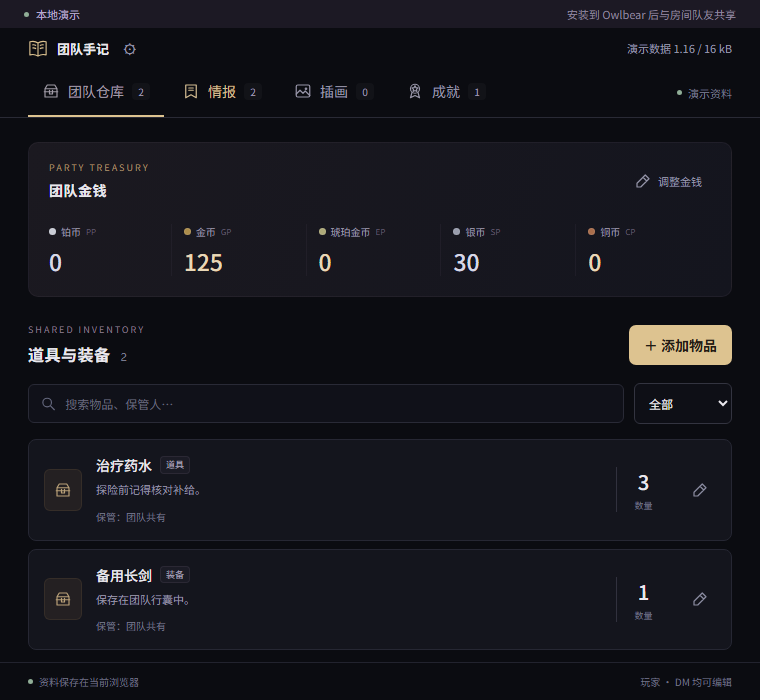
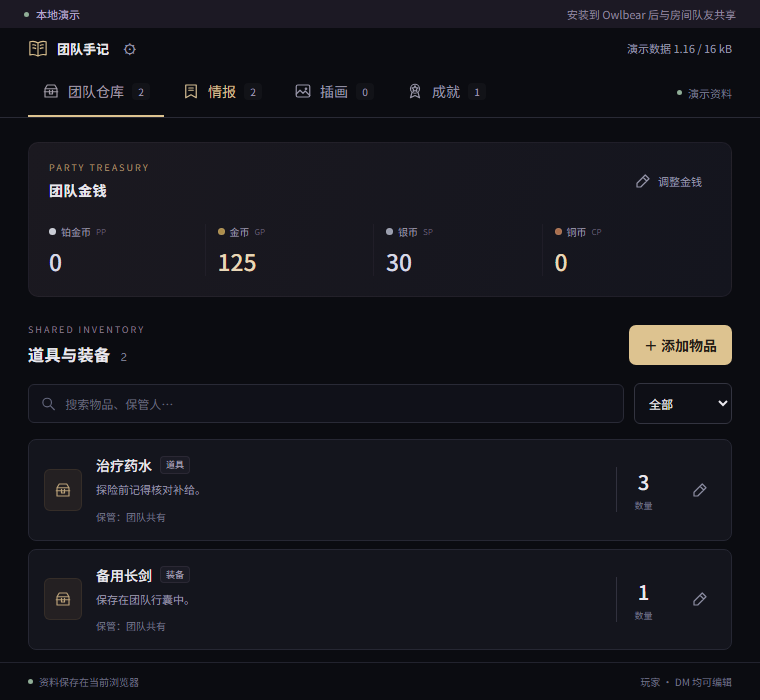
fix: use four currencies and correct platinum coin label

diff --git a/tests/panel.spec.ts b/tests/panel.spec.ts
@@ -4,7 +4,15 @@ test("money, items and equipment can be edited and survive a reload", async ({
   page,
 }) => {
   await page.goto("/panel.html");
+  await expect(page.locator(".coin-label")).toHaveText([
+    /铂金币\s*PP/,
+    /金币\s*GP/,
+    /银币\s*SP/,
+    /铜币\s*CP/,
+  ]);
   await page.getByRole("button", { name: "调整金钱", exact: true }).click();
+  await expect(page.getByRole("spinbutton")).toHaveCount(4);
+  await page.getByLabel("铂金币 · PP", { exact: true }).fill("2");
   await page.getByLabel("金币 · GP", { exact: true }).fill("220");
   await page.getByRole("button", { name: "保存金钱", exact: true }).click();
   await expect(page.getByLabel("金币余额", { exact: true })).toHaveText("220");
@@ -19,6 +27,7 @@ test("money, items and equipment can be edited and survive a reload", async ({
     page.getByRole("heading", { name: "月银长弓", exact: true }),
   ).toBeVisible();
   await page.reload();
+  await expect(page.getByLabel("铂金币余额", { exact: true })).toHaveText("2");
   await expect(page.getByLabel("金币余额", { exact: true })).toHaveText("220");
   await page.getByLabel("筛选分类").selectOption("装备");
   await expect(
@@ -165,7 +174,7 @@ for (const width of [390, 760])
       .fill("键盘和滚动均可编辑。");
     await page.getByRole("button", { name: "保存", exact: true }).click();
     await page.getByRole("button", { name: /^团队仓库/ }).click();
-    await page.screenshot({ path: `qa/v0.3.3/panel-${width}.png` });
+    await page.screenshot({ path: `qa/v0.3.4/panel-${width}.png` });
   });
 
 for (const width of [390, 760])
@@ -192,7 +201,7 @@ for (const width of [390, 760])
       iconBox = await card.locator(".achievement-icon").boundingBox();
     expect(iconBox!.width).toBeLessThan(cardBox!.width / 4);
     expect(cardBox!.width / cardBox!.height).toBeGreaterThan(2.3);
-    await page.screenshot({ path: `qa/v0.3.3/achievements-${width}.png` });
+    await page.screenshot({ path: `qa/v0.3.4/achievements-${width}.png` });
   });
 
 test("compact journal header and book manifest keep the native action and only two artwork import methods", async ({
@@ -214,10 +223,10 @@ test("compact journal header and book manifest keep the native action and only t
   ]);
   const manifest = await (await page.request.get("/manifest.json")).json();
   expect(manifest.name).toBe("团队手记");
-  expect(manifest.version).toBe("0.3.3");
+  expect(manifest.version).toBe("0.3.4");
   expect(manifest.action).toMatchObject({
     title: "团队手记",
-    icon: "/icon.svg?v=0.3.3",
+    icon: "/icon.svg?v=0.3.4",
     popover: "/panel.html",
     width: 760,
     height: 700,
@@ -247,7 +256,7 @@ for (const width of [390, 1440])
       ),
     ).toBe(true);
     await page.screenshot({
-      path: `qa/v0.3.3/home-${width}.png`,
+      path: `qa/v0.3.4/home-${width}.png`,
       fullPage: true,
     });
   });

diff --git a/src/cloud.test.ts b/src/cloud.test.ts
@@ -15,6 +15,7 @@ import {
   RECORD_PREFIX,
   WELCOME_ACHIEVEMENT,
   ACHIEVEMENT_PREFIX,
+  PREFIX,
   type Metadata,
   type Draft,
   type Artwork,
@@ -209,7 +210,9 @@ it("switches only one room, retains both datasets and original room metadata, an
   expect(local).toContain("原房间药水");
 });
 it("copies to an empty cloud library, preserves its source, and refuses overwriting existing target data", async () => {
-  const a = room("copy-room");
+  const legacyKey = PREFIX + "money/ep";
+  const legacyBalance = { value: 7, rev: "legacy" };
+  const a = room("copy-room", { [legacyKey]: legacyBalance });
   await connect(a.store);
   await a.router.saveProfile(profile);
   await a.store.save(potion);
@@ -221,7 +224,15 @@ it("copies to an empty cloud library, preserves its source, and refuses overwrit
   await a.store.selectStorage(profile, lib);
   expect(a.store.state.entries[0].title).toBe("药水");
   expect(a.store.state.achievements).toEqual([]);
+  expect((await a.router.read())[legacyKey]).toEqual(legacyBalance);
+  expect(a.data()[legacyKey]).toEqual(legacyBalance);
   await expect(a.store.copyStorage()).rejects.toThrow("原资料仍保留");
+  const target = room("copy-legacy-currency-target");
+  await connect(target.store);
+  await target.router.saveProfile(profile);
+  await target.store.selectStorage(profile, lib);
+  await target.store.copyStorage();
+  expect(target.data()[legacyKey]).toEqual(legacyBalance);
 });
 it("copies actual saved achievements and deletion markers without inventing a welcome card", async () => {
   const a = room("copy-saved-achievements");

diff --git a/tests/native.spec.ts b/tests/native.spec.ts
@@ -121,7 +121,7 @@ test("native SDK shares warehouse, notes, direct gallery selection and room usag
     "无法打开 Owlbear 图库：测试图库启动失败",
   );
   await expect(player.getByRole("dialog")).toHaveCount(0);
-  await page.screenshot({ path: "qa/v0.3.3/gallery-error.png" });
+  await page.screenshot({ path: "qa/v0.3.4/gallery-error.png" });
   await player.getByRole("button", { name: "从图库选择", exact: true }).click();
   await expect(
     player.getByRole("button", { name: "从图库选择", exact: true }),
@@ -147,7 +147,7 @@ test("native SDK shares warehouse, notes, direct gallery selection and room usag
       frame.getByRole("region", { name: "当前展示" }).locator("img"),
     ).toHaveJSProperty("complete", true);
   }
-  await page.screenshot({ path: "qa/v0.3.3/native-two-clients.png" });
+  await page.screenshot({ path: "qa/v0.3.4/native-two-clients.png" });
   const metadata = JSON.parse(
     (await page.locator("#metadata").textContent()) || "{}",
   );
@@ -237,7 +237,7 @@ test("native SDK shares warehouse, notes, direct gallery selection and room usag
   expect((await page.locator("#metadata").textContent()) || "{}").not.toContain(
     "private.png",
   );
-  await page.screenshot({ path: "qa/v0.3.3/private-gallery.png" });
+  await page.screenshot({ path: "qa/v0.3.4/private-gallery.png" });
   for (const frame of [player, dm])
     await frame.getByRole("button", { name: /^成就/ }).click();
   await other.getByRole("button", { name: /^成就/ }).click();

diff --git a/src/store.test.ts b/src/store.test.ts
@@ -17,6 +17,7 @@ import {
   WELCOME_ACHIEVEMENT,
   DISPLAY_KEY,
   RECORD_PREFIX,
+  PREFIX,
   moneyKey,
   type Draft,
   type Entry,
@@ -118,7 +119,9 @@ it("rejects a stale editor after another client edits or removes its record", as
   stop();
 });
 it("changes only edited denominations and detects a conflicting money edit", async () => {
-  const room = hub(),
+  const legacyKey = PREFIX + "money/ep";
+  const legacyBalance = { value: 7, rev: "legacy" };
+  const room = hub({ [legacyKey]: legacyBalance }),
     store = new TeamStore(room.driver);
   const stop = await connect(store);
   const base = structuredClone(store.state.money);
@@ -131,6 +134,10 @@ it("changes only edited denominations and detects a conflicting money edit", asy
   expect(store.state.money.gp.value).toBe(20);
   expect(store.state.money.sp.value).toBe(50);
   expect(room.get()[moneyKey("gp")]).toMatchObject({ value: 20 });
+  expect(room.get()[legacyKey]).toEqual(legacyBalance);
+  expect(
+    room.write.mock.calls.every(([update]) => !(legacyKey in update)),
+  ).toBe(true);
   stop();
 });
 it("clears shared presentation when its artwork is removed and preserves the asset URL in backup before removal", async () => {

diff --git a/src/model.test.ts b/src/model.test.ts
@@ -6,6 +6,10 @@ import {
   RECORD_PREFIX,
   ACHIEVEMENT_PREFIX,
   WELCOME_ACHIEVEMENT,
+  COINS,
+  COIN_LABELS,
+  PREFIX,
+  moneyKey,
   safeImageUrl,
   unpack,
   validateEntry,
@@ -22,6 +26,21 @@ const note: Intel = {
   content: "我们记录下看见的事。".repeat(400),
   resolved: false,
 };
+it("reads four denominations and names platinum coins without exposing legacy EP", async () => {
+  const state = await readSnapshot({
+    [moneyKey("pp")]: { value: 3, rev: "platinum" },
+    [PREFIX + "money/ep"]: { value: 7, rev: "legacy" },
+  });
+  expect(COINS).toEqual(["pp", "gp", "sp", "cp"]);
+  expect(COINS.map((coin) => COIN_LABELS[coin])).toEqual([
+    "铂金币",
+    "金币",
+    "银币",
+    "铜币",
+  ]);
+  expect(Object.keys(state.money)).toEqual(["pp", "gp", "sp", "cp"]);
+  expect(state.money.pp.value).toBe(3);
+});
 it("only shows explicitly saved room achievements and keeps the welcome sample opt-in", async () => {
   expect((await readSnapshot({})).achievements).toEqual([]);
   expect((await readSnapshot({}, true, true)).achievements).toEqual([

diff --git a/tests/storage.spec.ts b/tests/storage.spec.ts
@@ -216,7 +216,7 @@ test("DM storage settings switch one room across two libraries and restore room 
   ).toBeVisible();
   await dm.getByRole("button", { name: "存储设置", exact: true }).click();
   await dm.getByLabel("存储来源").selectOption("room");
-  await page.screenshot({ path: "qa/v0.3.3/storage-settings.png" });
+  await page.screenshot({ path: "qa/v0.3.4/storage-settings.png" });
   await dm
     .getByRole("button", { name: "切换并保留原资料", exact: true })
     .click();
@@ -245,7 +245,7 @@ test("DM storage settings switch one room across two libraries and restore room 
   await expect(
     dm.getByText("仅 DM 可见 · 云端", { exact: true }),
   ).toBeVisible();
-  await page.screenshot({ path: "qa/v0.3.3/cloud-private.png" });
+  await page.screenshot({ path: "qa/v0.3.4/cloud-private.png" });
   await page.evaluate(() => localStorage.clear());
   await page
     .locator("#dm")

diff --git a/src/model.ts b/src/model.ts
@@ -2,12 +2,11 @@ export const PREFIX = "io.twisted-moon.v1/";
 export const RECORD_PREFIX = PREFIX + "entry/";
 export const ACHIEVEMENT_PREFIX = PREFIX + "achievement/";
 export const QUALITIES = ["普通", "优秀", "稀有", "史诗", "传说"] as const;
-export const COINS = ["pp", "gp", "ep", "sp", "cp"] as const;
+export const COINS = ["pp", "gp", "sp", "cp"] as const;
 export type Coin = (typeof COINS)[number];
 export const COIN_LABELS: Record<Coin, string> = {
-  pp: "铂币",
+  pp: "铂金币",
   gp: "金币",
-  ep: "琥珀金币",
   sp: "银币",
   cp: "铜币",
 };

diff --git a/index.html b/index.html
@@ -53,7 +53,7 @@
         <article>
           <span>01 / VAULT</span>
           <h2>战利品，有处可寻。</h2>
-          <p>记录五类钱币，整理道具与装备，核对数量和保管人。</p>
+          <p>记录铂金币、金币、银币与铜币，整理道具与装备，核对数量和保管人。</p>
         </article>
         <article>
           <span>02 / INTELLIGENCE</span>

diff --git a/src/style.css b/src/style.css
@@ -419,7 +419,7 @@ button.primary:hover {
 }
 .coin-grid {
   display: grid;
-  grid-template-columns: repeat(5, minmax(0, 1fr));
+  grid-template-columns: repeat(4, minmax(0, 1fr));
   gap: 12px;
   margin-top: 24px;
 }
@@ -458,9 +458,6 @@ button.primary:hover {
 }
 .coin.cp i {
   background: #aa6e4c;
-}
-.coin.ep i {
-  background: #aeaa79;
 }
 .coin strong {
   font-size: clamp(16px, 3vw, 25px);

diff --git a/src/cloud-protocol.ts b/src/cloud-protocol.ts
@@ -34,6 +34,8 @@ export const STAMP_KEY = "__team_journal_read_stamp";
 export function businessKey(key: string) {
   return (
     key === DISPLAY_KEY ||
+    // Preserve legacy EP records when copying existing room or cloud data.
+    key === PREFIX + "money/ep" ||
     COINS.some((c) => key === moneyKey(c)) ||
     [RECORD_PREFIX, ACHIEVEMENT_PREFIX].some(
       (prefix) =>

diff --git a/src/main.tsx b/src/main.tsx
@@ -239,7 +239,7 @@ function App() {
         void OBR.action.setHeight(700).catch((e) => setError(String(e)));
         void OBR.action.setTitle("团队手记").catch((e) => setError(String(e)));
         void OBR.action
-          .setIcon("/icon.svg?v=0.3.3")
+          .setIcon("/icon.svg?v=0.3.4")
           .catch((e) => setError(String(e)));
       });
   }, []);
